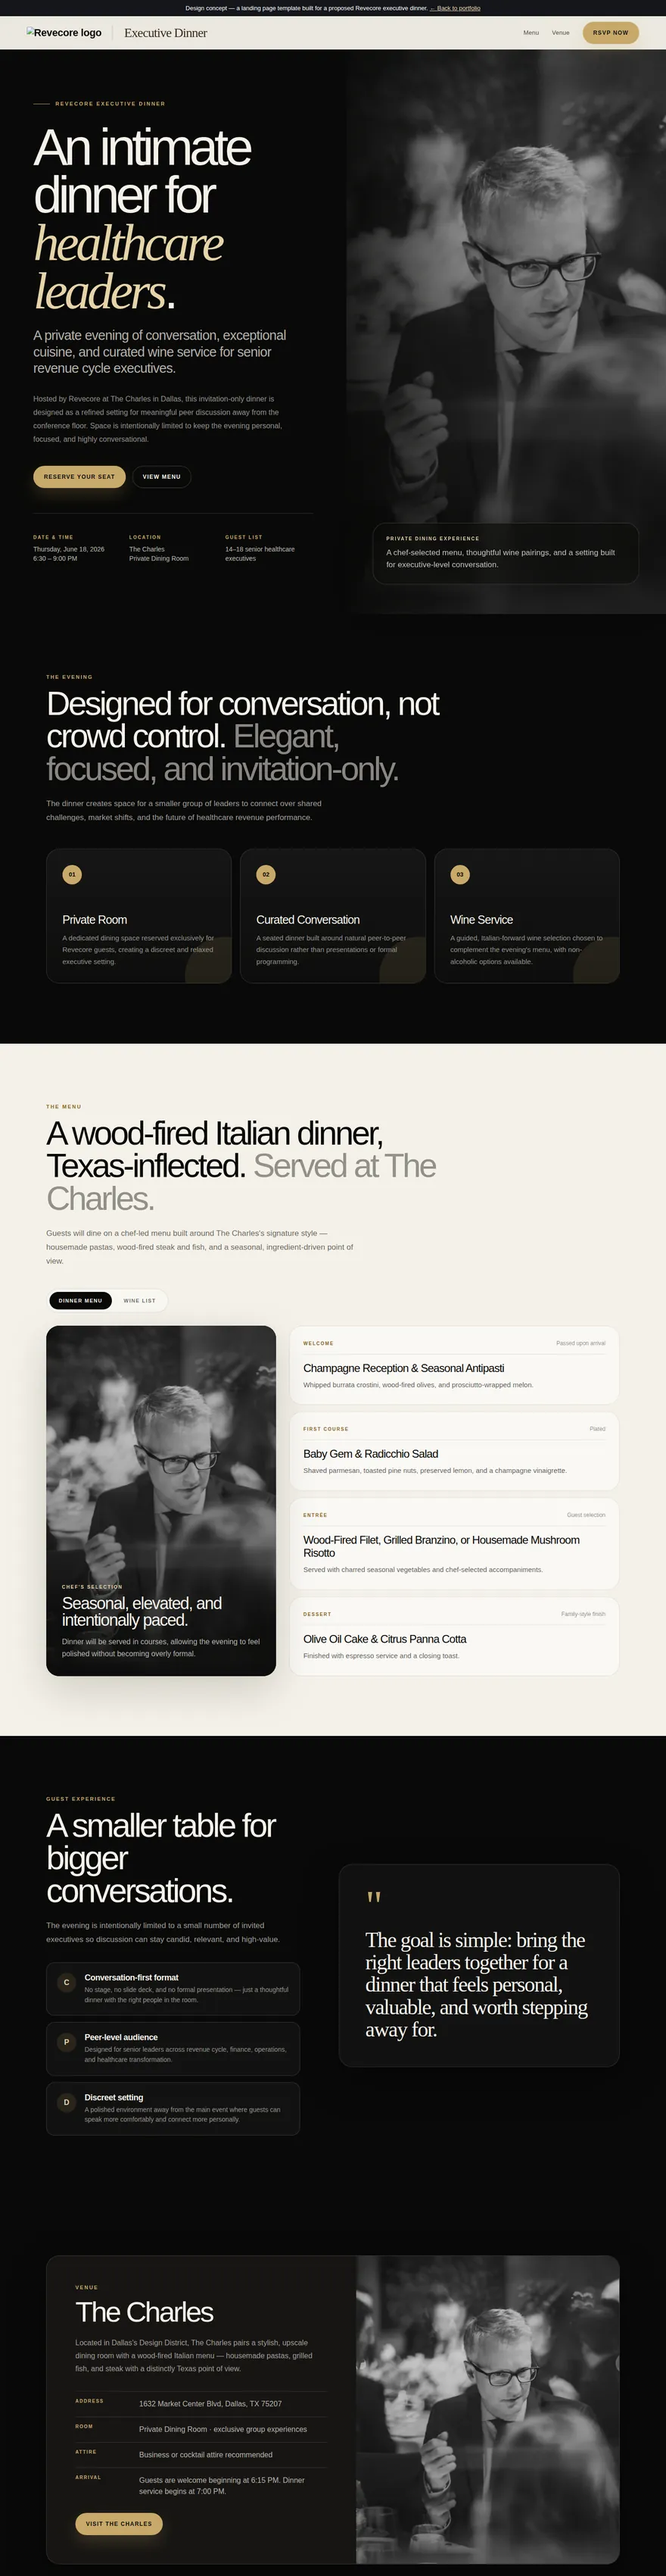
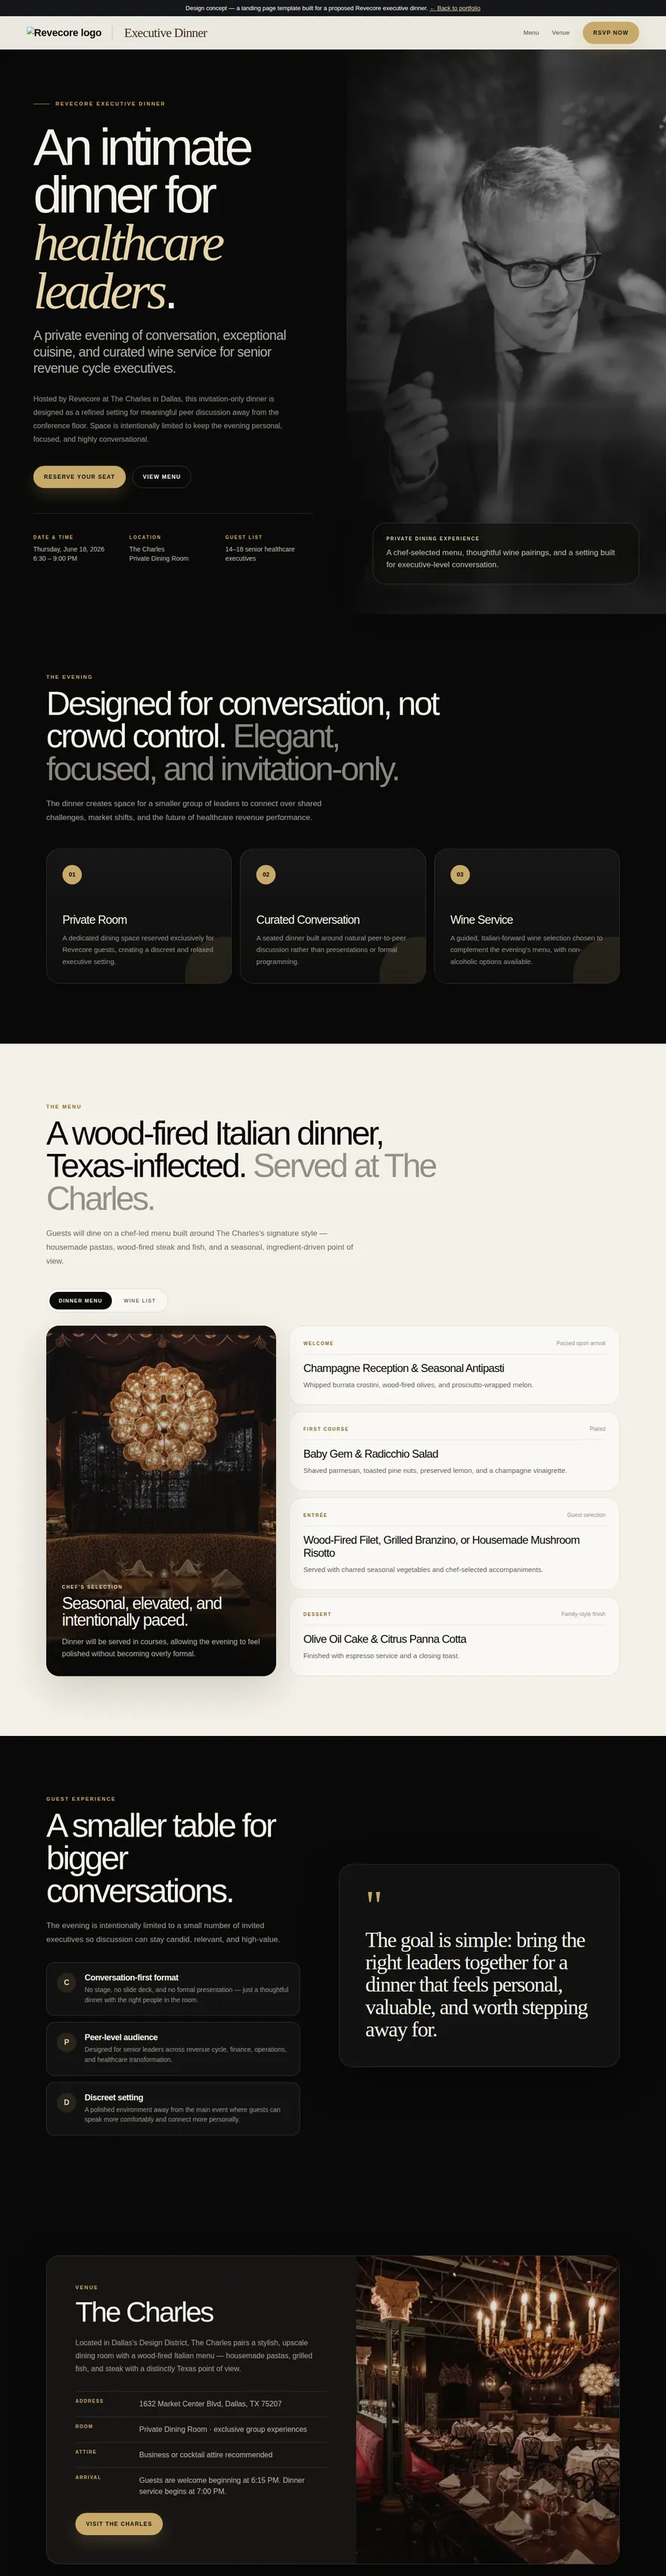
Add the venue photography to the Executive Dinner landing page
All three image slots on the page were pointing at the same file, so the
menu feature and the venue band were both repeating the hero shot.

- Menu feature now uses the private dining booth at The Charles.
- Venue band now uses the main dining room.
- The hero keeps the black-and-white dinner photograph.

Both new files carry descriptive alt text, and the Landing Pages archive
preview is regenerated so the thumbnail matches the page.

Note: charles-dining-room.jpg is only 678x452 in the source supplied, and
the venue slot renders it around 570x665, so it is upscaled and cropped
fairly tightly. A larger original would render noticeably sharper.

Claude-Session: https://claude.ai/code/session_01Wksg97bj4J1xHZUjKxUufA

Changed region(s): [[0.5216, 0.8729, 0.9511, 0.9976], [0.0614, 0.4988, 0.4295, 0.6547]]

diff --git a/landing-executive-dinner.html b/landing-executive-dinner.html
@@ -415,7 +415,7 @@
           <div class="tab-panel active" id="panel-dinner">
             <div class="menu-layout">
               <div class="menu-feature">
-                <img src="images/project-exec-dinner.jpg" alt="The Charles private dining room" />
+                <img src="images/charles-private-dining.jpg" alt="A curved booth set for dinner beneath a globe chandelier in the private dining room at The Charles" />
                 <div class="menu-feature-content">
                   <small>Chef's Selection</small>
                   <h3>Seasonal, elevated, and intentionally paced.</h3>
@@ -535,7 +535,7 @@
             </div>
 
             <div class="venue-visual">
-              <img src="images/project-exec-dinner.jpg" alt="The Charles bar and dining room" />
+              <img src="images/charles-dining-room.jpg" alt="The main dining room at The Charles, with banquette seating beneath a candle chandelier" />
             </div>
           </div>
         </div>
